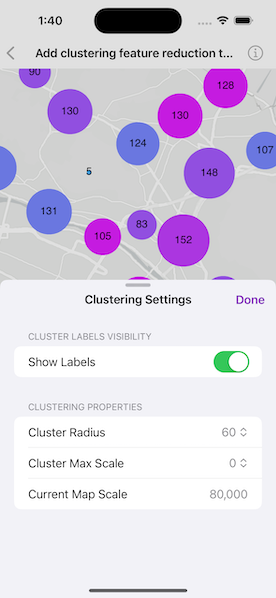
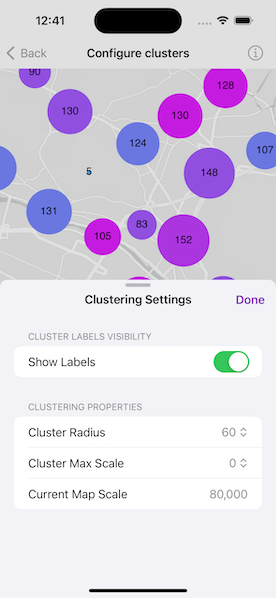
Update configure clusters content.

diff --git a/Shared/Samples/Add clustering feature reduction to a point feature layer/AddClusteringFeatureReductionToAPointFeatureLayerView.swift b/Shared/Samples/Add clustering feature reduction to a point feature layer/AddClusteringFeatureReductionToAPointFeatureLayerView.swift
@@ -16,7 +16,7 @@ import ArcGIS
 import ArcGISToolkit
 import SwiftUI
 
-struct AddClusteringFeatureReductionToAPointFeatureLayerView: View {
+struct ConfigureClustersView: View {
     /// The model for the sample.
     @StateObject private var model = Model()
     
@@ -76,6 +76,6 @@ struct AddClusteringFeatureReductionToAPointFeatureLayerView: View {
 
 #Preview {
     NavigationView {
-        AddClusteringFeatureReductionToAPointFeatureLayerView()
+        ConfigureClustersView()
     }
 }

diff --git a/Shared/Samples/Add clustering feature reduction to a point feature layer/AddClusteringFeatureReductionToAPointFeatureLayerView.Model.swift b/Shared/Samples/Add clustering feature reduction to a point feature layer/AddClusteringFeatureReductionToAPointFeatureLayerView.Model.swift
@@ -15,7 +15,7 @@
 import ArcGIS
 import UIKit.UIColor
 
-extension AddClusteringFeatureReductionToAPointFeatureLayerView {
+extension ConfigureClustersView {
     /// The model used to store the geo model and other expensive objects
     /// used in this view.
     class Model: ObservableObject {

diff --git a/Shared/Samples/Add clustering feature reduction to a point feature layer/AddClusteringFeatureReductionToAPointFeatureLayerView.SettingsView.swift b/Shared/Samples/Add clustering feature reduction to a point feature layer/AddClusteringFeatureReductionToAPointFeatureLayerView.SettingsView.swift
@@ -14,7 +14,7 @@
 
 import SwiftUI
 
-extension AddClusteringFeatureReductionToAPointFeatureLayerView {
+extension ConfigureClustersView {
     struct SettingsView: View {
         /// The model for the sample.
         @ObservedObject var model: Model

diff --git a/Shared/Samples/Add clustering feature reduction to a point feature layer/README.md b/Shared/Samples/Add clustering feature reduction to a point feature layer/README.md
@@ -1,8 +1,8 @@
-# Add clustering feature reduction to a point feature layer
+# Configure clusters
 
 Add client side feature reduction on a point feature layer that is not pre-configured with clustering.
 
-![Image of Add clustering feature reduction to a point feature layer sample](add-clustering-feature-reduction-to-a-point-feature-layer.png)
+![Image of configure clusters](configure-clusters.png)
 
 ## Use case
 
